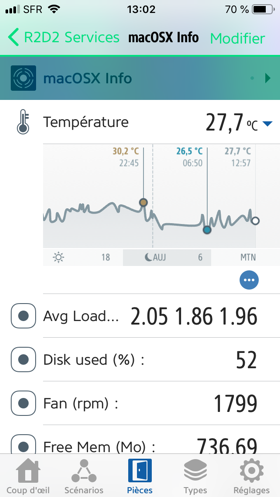
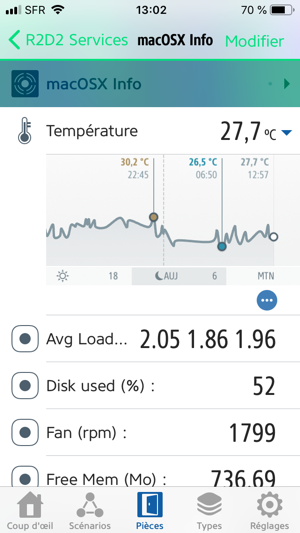
v1.0.0

diff --git a/README.md b/README.md
@@ -13,14 +13,14 @@ Such as :
 * UpdateTime
 
 You can see below two screenshots for illustrate homebridge-macos-info homebridge/HomeKit plugin.
-<div style="width:590px; height:497px; overflow:scroll; overflow-x: scroll;overflow-y: hidden">
-<img style=" float:left; display:inline" src=https://di-marco.net/screenshots/screenshot_1.png width="280px" height="497px"/>
-<img style=" float:left; display:inline" src=https://di-marco.net/screenshots/.fake.png width="30px" height="30px"/>
-<img style=" float:left; display:inline" src=https://di-marco.net/screenshots/screenshot_2.png width="280px" height="497px"/>
+<div style="width:650px; height:533px; overflow:scroll; overflow-x: scroll;overflow-y: hidden">
+<img style=" float:left; display:inline" src=https://di-marco.net/screenshots/screenshot_1.png width="300px" height="533px"/>
+<img style=" float:left; display:inline" src=https://di-marco.net/screenshots/.fake.png width="50px" height="50px"/>
+<img style=" float:left; display:inline" src=https://di-marco.net/screenshots/screenshot_2.png width="300px" height="533px"/>
 </div>
 
 ## Exemple of .json data response file
-```
+```json  
 {
     "UpdateTime":"Sun Apr 21 22:38:07 CEST 2019",
     "temperature":30.7,
@@ -31,7 +31,6 @@ You can see below two screenshots for illustrate homebridge-macos-info homebridg
     "disk":50
 }
 ```
-
 ## Prerequisites
 * Install <a href="https://brew.sh">Homebrew</a> *#Homebrew installs the stuff you need that Apple (or your Linux system) didn’t.*
 * Install <a href="https://github.com/nfarina/homebridge/wiki/Install-Homebridge-on-macOS">Homebridge</a> on macOS
@@ -42,8 +41,8 @@ You can see below two screenshots for illustrate homebridge-macos-info homebridg
 
 ## Configuration
 ### Add this lines in homebridge congig.json file.
-```
-    "accessories": [
+```json    
+"accessories": [
         {
             "accessory": "MacOSXSysInfo",
             "name": "macOSX Info",
@@ -52,20 +51,20 @@ You can see below two screenshots for illustrate homebridge-macos-info homebridg
         }
     ],
 ```
-The "/tmp/_homebridge-macosx-info.json" is a file where the temperature is temporarily measured. The default value of this is "/tmp/_homebridge-macosx-info.json".
+The "<span style="color:grey">*/tmp/_homebridge-macosx-info.json*</span>" is a file where the temperature is temporarily measured. The default value of this is "<span style="color:grey">*/tmp/_homebridge-macosx-info.json*</span>".
 
 "updateInterval" : is time in second of update measured temperature.
 
-The index.js call "/sh/homebridge-macosx-info.sh" shell script. You can find this script in the repository in "/sh" directory
+The index.js call "<span style="color:grey">*/sh/homebridge-macosx-info.sh*</span>" shell script. You can find this script in the repository in "/sh" directory
 
-### Adapte "homebridge-macosx-info.sh" file in sh/ directory
+### Adapte "homebridge-macosx-info.sh" file in "sh" directory
 * Change or adapte path of "<a href="https://github.com/jedda/OSX-Monitoring-Tools/tree/master/check_osx_smc">check_osx_smc</a>" bin
 * Change or adapte path of temporary files : _homebridge-macosx-info.json
 
-```
+```sh
 function sys_mon()
 {
-    _TIME=`date`
+    _time=`date`
 
     read -a fields <<< `~/r2d2/it/script/check_osx_smc -s c -r TA0P,F0Ac -w 70,5200 -c 85,5800`
     _temp=${fields[7]//,/.}
@@ -85,7 +84,8 @@ function sys_mon()
     read -a fields <<<  `df -h / | grep /`
     _disk=${fields[4]//%/}
 
-    echo '{"UpdateTime":"'${_TIME}'","temperature":'${_temp:5:4}',"fan":'${_fan:5:4}',"uptime":"'${_UPTIME}'","load":"'${_LOAD}'","mem":'${_mem:0:6}',"disk":'${_disk}'}' > /tmp/_homebridge-macosx-info.json
+    echo '{"UpdateTime":"'${_time}'","temperature":'${_temp:5:4}',"fan":'${_fan:5:4}',"uptime":"'${_UPTIME}'","load":"'${_LOAD}'","mem":'${_mem:0:6}',"disk":'${_disk}'}' > /tmp/_homebridge-macosx-info.json
+
 }
 ```
 
